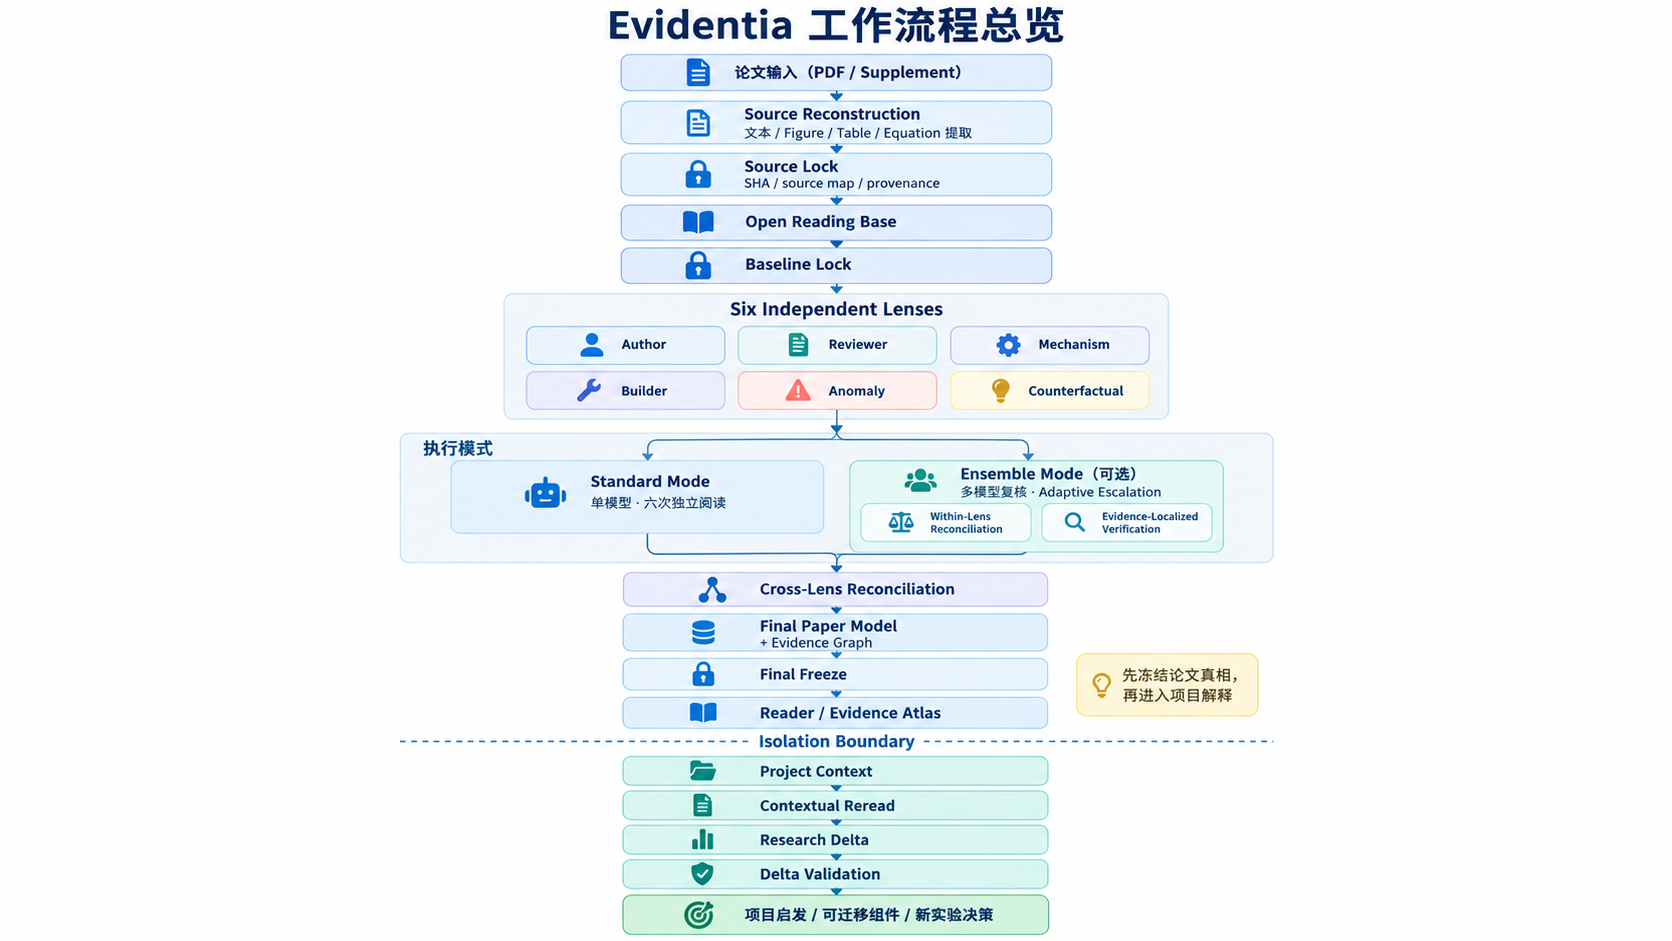
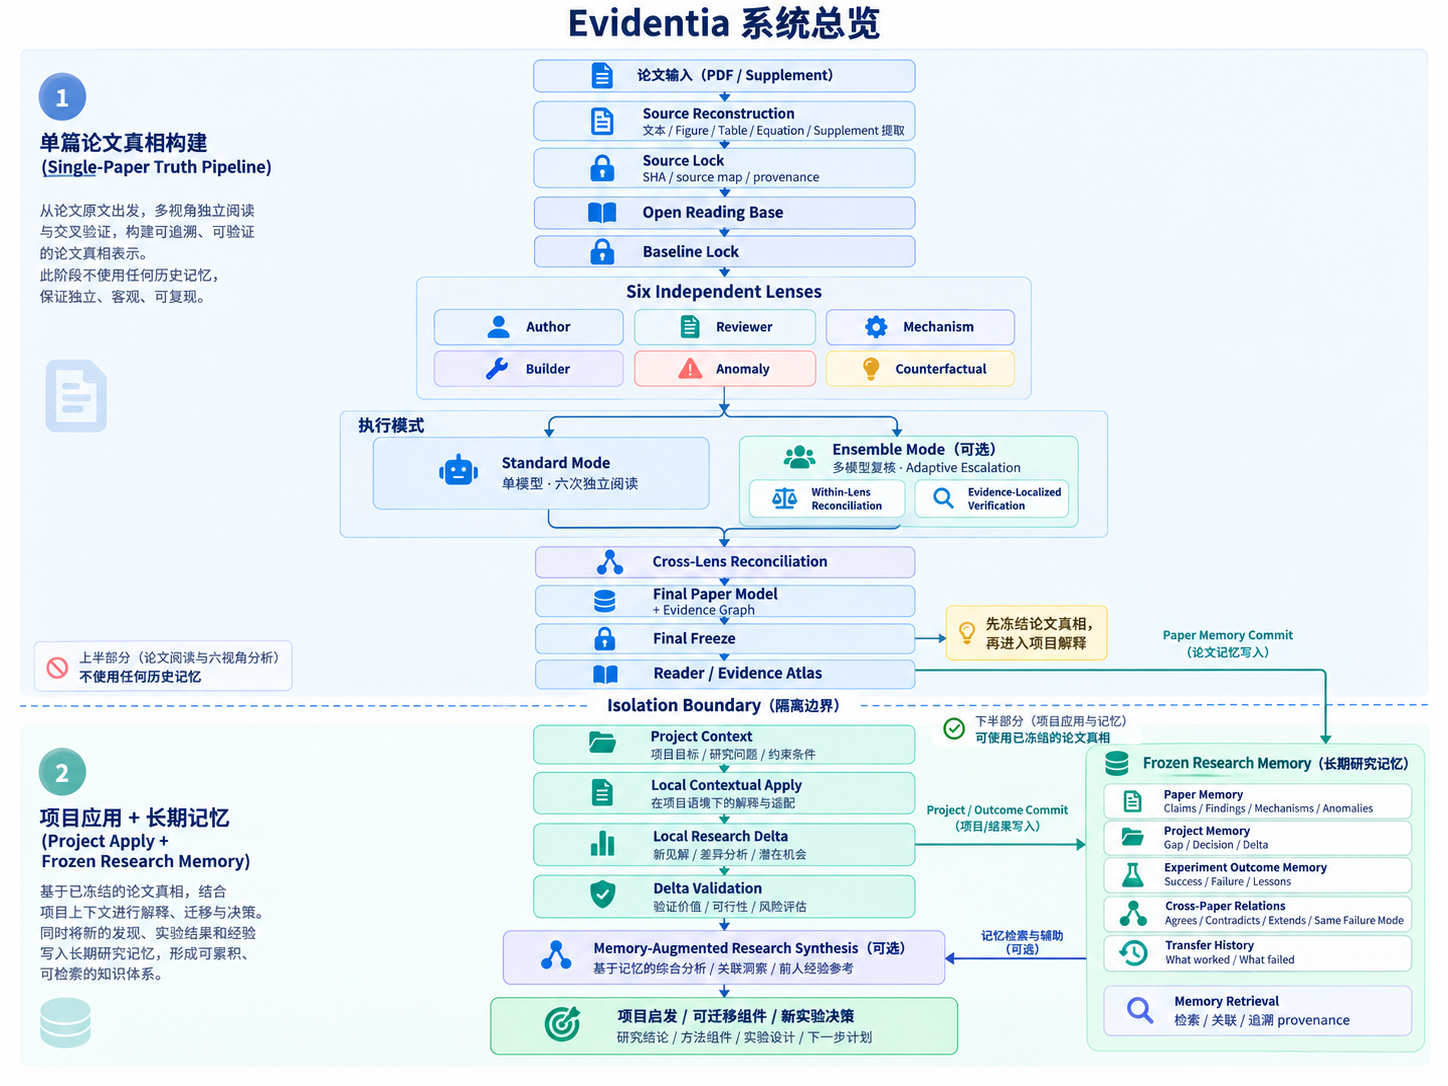
docs: add comprehensive v1.0 reference specifications (Sections 88-90)

diff --git a/references/epistemic-states.md b/references/epistemic-states.md
@@ -1,0 +1,19 @@
+# Evidentia Epistemic States Vocabulary
+
+In Evidentia, scientific uncertainty is treated as first-class empirical data, never flattened into binary true/false.
+
+## Canonical Epistemic States
+
+| State | Definition | Example / Trigger |
+|---|---|---|
+| **VERIFIED** | The assertion has been independently verified against localized source evidence by the Verifier. | Numeric accuracy in Table 1 matches claimed improvement. |
+| **SUPPORTED** | The assertion is directly substantiated by in-paper evidence (figures, tables, derivations). | Observation is directly visible in Figure 2. |
+| **PARTIAL** | The assertion is partially supported, but key conditions, ablations, or controls are omitted. | Trend holds on benchmark A, but was not evaluated on benchmark B. |
+| **NOT_STATED** | The paper implies a conclusion but omits explicit empirical data or formal derivation. | Hyperparameter sensitivity is not documented in the text. |
+| **AMBIGUOUS** | The evidence is contradictory, poorly specified, or susceptible to multiple conflicting interpretations. | Divergent loss curves under different initialization seeds. |
+| **INSUFFICIENT_EVIDENCE** | The available data is insufficient to establish or refute the claim. | Insufficient sample size or unstated statistical test. |
+| **MODEL_UNCERTAIN** | The Host Agent identifies multiple plausible hypotheses and cannot resolve certainty. | Ambiguous wording in experimental setup. |
+| **NEEDS_SUPPLEMENT** | Verification requires inspecting supplementary materials or external appendices. | Full proof or dataset license deferred to supplement. |
+| **NEEDS_CITATION_TRACE** | The claim relies on external literature citations rather than in-paper data. | Baseline accuracy numbers cited from previous publications. |
+| **UNRESOLVED** | Cross-lens tension or contradiction remains unverified or unresolved. | Reviewer lens and Author lens disagree on failure mode. |
+| **REJECTED** | The assertion is explicitly disproved or refuted by localized evidence. | Ablation demonstrates loss term has negligible effect. |

diff --git a/references/evaluation.md b/references/evaluation.md
@@ -1,0 +1,40 @@
+# Evaluation Framework & Benchmark Architecture
+
+Evidentia strictly separates engineering correctness from scientific validation through a multi-tier evaluation system.
+
+## Evaluation Tiers
+
+### Tier 0 — Deterministic Correctness (CI Gate)
+- Validates schemas against Draft 2020-12
+- Enforces SHA-256 content-address chain and fail-closed freeze gates
+- Enforces artifact bundle tamper detection and resume safety
+- Runs on every pull request
+
+### Tier 1 — Synthetic Integration
+- Tests workflow plumbing and state transitions from raw synthetic PDFs to frozen reader
+- Validates CLI orchestration without live LLM calls
+
+### Tier 2 — Recorded Real-Agent Replay
+- Replays sanitized, recorded Host Agent results to verify contract compatibility and schema stability
+
+### Tier 3 — Live Agent Integration
+- Evaluates live host models on benchmark corpus papers
+
+### Tier 4 — Human-Annotated Scientific Benchmark
+- Compares Condition A (Single-pass reading), Condition B (Evidentia Standard), and Condition C (Evidentia Ensemble) against ground-truth human annotations
+
+## Key Metric Formulations
+
+### Scientific Grounding
+- **Claim-Evidence Precision**: Fraction of claim evidence attachments verified in ground truth.
+- **Unsupported Claim Rate**: Fraction of claims lacking direct evidence citations.
+- **O/I/A Leakage Rate**: Fraction of Observation blocks containing author rhetoric or unverified reader assessment.
+
+### Critical Reading
+- **Weakness Recall**: Fraction of real paper weaknesses captured across Reviewer, Mechanism, and Builder passes.
+- **Anomaly Recall**: Fraction of real anomalies identified by the Anomaly pass.
+- **Causal Overclaim Detection**: Identification of unsupported causal language.
+
+### Memory Integrity
+- **Open Reading Contamination Rate**: Fraction of Open Reading passes exposed to memory context (**Critical Invariant: MUST BE 0.0**).
+- **Provenance Completeness**: Percentage of memory items retaining full commit and source evidence chains.

diff --git a/references/ensemble.md b/references/ensemble.md
@@ -1,0 +1,46 @@
+# Multi-Model Ensemble Mode
+
+Ensemble Mode enhances Standard Mode with model diversity while preserving invariant scientific contracts.
+
+## Architecture
+
+```text
+Host Task Packet (Identical Lens Contract)
+      ├── Model Alpha ──► lens_runs/<lens>/run-001.json
+      └── Model Beta  ──► lens_runs/<lens>/run-002.json
+                                 │
+                                 ▼
+                     Within-Lens Reconciliation
+                                 │
+                                 ▼
+                     Adaptive Model Escalation
+                                 │
+                                 ▼
+                     Canonical `lens/<lens>.json`
+```
+
+## Within-Lens States
+
+- **MODEL_SINGLETON**: A finding identified by only one model.
+- **CROSS_MODEL_CONVERGENCE**: Multiple independent models converge on the same finding.
+- **MODEL_PARTIAL_AGREEMENT**: Models agree on core premise with varying nuance.
+- **MODEL_CONFLICT**: Models produce conflicting interpretations of the same evidence.
+
+## Adaptive Escalation Triggers
+
+Second model passes or localized verification are triggered when:
+- High scientific impact
+- Epistemic uncertainty (`AMBIGUOUS`, `INSUFFICIENT_EVIDENCE`)
+- Unexpected anomalies (`novel_vs_base: true`)
+- Weak or unattached evidence
+- Critical transfer value for project application
+
+## Host Adapter Boundary
+
+Adapters (such as `adapters/pi/`) handle:
+- Model routing
+- Task dispatch
+- Result collection
+- Executor metadata injection
+
+Adapters never own lens definitions, scientific schemas, truth arbitration, or freeze gates.

diff --git a/references/memory-architecture.md b/references/memory-architecture.md
@@ -1,0 +1,36 @@
+# Frozen Research Memory Architecture
+
+Frozen Research Memory is Evidentia's explicit, inspectable, long-term cross-paper memory system.
+
+## Storage Layout
+
+```text
+<EVIDENTIA_MEMORY_ROOT>/
+├── memory.sqlite           # Rebuildable index + FTS5 full-text search
+├── objects/                # Immutable canonical JSON objects
+│   ├── paper_commits/     # Commits from frozen paper models
+│   ├── project_commits/   # Commits from validated research deltas
+│   ├── relations/         # Evidence-grounded cross-paper relations
+│   └── outcomes/          # Experiment results & decision traces
+├── snapshots/              # Periodic memory snapshots
+├── exports/                # Exported portable memory archives
+└── memory_manifest.json    # Top-level memory audit trail
+```
+
+## Immutable Objects vs Rebuildable Index
+
+Canonical truth resides in immutable JSON objects under `objects/`.
+`memory.sqlite` is an ephemeral index:
+\[
+\text{Database corruption} \neq \text{Knowledge loss}
+\]
+The index can be completely recreated from disk objects at any time:
+```bash
+evidentia memory rebuild-index
+```
+
+## Commit Gates
+
+- **Paper Commit**: Requires `verify_frozen.py` to pass with `FROZEN` status. Unfrozen paper models are rejected.
+- **Project Commit**: Requires `validate_delta.py` to pass with valid provenance.
+- **Outcome Commit**: Records real experiment outcomes (`SUCCESS`, `FAILURE`, `PARTIAL_SUCCESS`, `INCONCLUSIVE`).

diff --git a/references/reconciliation.md b/references/reconciliation.md
@@ -1,0 +1,35 @@
+# Semantic Cross-Lens Reconciliation
+
+Reconciliation integrates findings from the six independent Lens rereads into coherent, structured knowledge without erasing scientific tension.
+
+## Two-Phase Pipeline
+
+### 1. Deterministic Pre-Clustering (`merge_lenses.py`)
+Deterministic code groups candidate findings by:
+- Exact duplicate statements and shared evidence
+- Shared source objects (e.g. both commenting on Figure 2)
+- Potential polarity opposition (one affirming, one critiquing)
+
+Deterministic code does NOT decide final scientific truth.
+
+### 2. Semantic Relation Classification
+Findings are categorized into canonical relations:
+- **AGREEMENT**: Independent lenses converge on identical or corroborating findings.
+- **COMPLEMENTARY**: Lenses reveal distinct, non-overlapping facets of the same evidence.
+- **PARTIAL_AGREEMENT**: Lenses agree on core mechanism but differ on scope or assumptions.
+- **TENSION**: Lenses observe divergent trends on the same evidence.
+- **CONTRADICTION**: Lenses state diametrically opposing conclusions.
+- **ORTHOGONAL**: Findings address unrelated aspects.
+- **UNRESOLVED**: Ambiguous or insufficient evidence prevents classification.
+
+## Finding Cluster Model
+
+Canonical `Finding Cluster` objects (`schemas/finding_cluster.schema.json`) capture:
+- `cluster_id`
+- `member_finding_ids`
+- `relation`
+- `canonical_statement` (Agent-formulated)
+- `supporting_lenses`
+- `evidence_ids`
+- `epistemic_state`
+- `verification_required`

diff --git a/references/scientific-execution.md b/references/scientific-execution.md
@@ -1,0 +1,22 @@
+# Scientific Execution Architecture
+
+Evidentia v1.0 establishes an absolute architectural boundary between deterministic orchestration and scientific reasoning:
+
+```text
+Deterministic Code (Python)          Host Agent (LLM / Reasoner)
+---------------------------          ---------------------------
+- PDF text & visual extraction       - Paper interpretation
+- ID generation & hashing            - Claim formulation
+- State machine advancement          - Lens critical rereading
+- Schema validation                  - Semantic reconciliation
+- Evidence bundle generation         - Localized verification
+- Fail-closed freeze checks          - Transfer analysis & Apply
+- Database indexing & HTML rendering
+```
+
+## Non-Negotiable Invariants
+
+1. **Source Before Interpretation**: No scientific statement may be formed without concrete grounding in reconstructed source objects (pages, sections, figures, tables, equations, mentions).
+2. **Deterministic Code Never Invents Science**: Production execution code is strictly prohibited from containing hardcoded scientific conclusions, templates, or manufactured numbers.
+3. **Host-Agnostic Execution**: Standard Mode executes fully on any compatible single model/host (Codex, Claude Code, Pi) using standard JSON task packets.
+4. **Project Invisibility during Reading**: Open Reading has zero access to project documents, project goals, or long-term research memory.

diff --git a/references/verifier.md b/references/verifier.md
@@ -1,0 +1,29 @@
+# Evidence-Localized Verifier
+
+The Verifier evaluates disputed claims, anomalies, and cross-lens contradictions against localized source evidence.
+
+## Core Principle: No Majority Voting
+
+Neither model count nor lens count determines scientific validity:
+\[
+4 \text{ models agree with Author} \neq \text{Truth}
+\]
+Truth is determined solely by localized evidence verification.
+
+## Localized Evidence Boundary
+
+The Verifier is NOT fed the entire paper text. Its input is strictly localized to:
+- Candidate statement & claim target
+- Relevant source IDs
+- Figure/Table captions
+- Localized visual asset (image file, dimensions, channel validity)
+- Parsed table cells / regions
+- Surrounding paragraphs and mathematical derivations
+
+## Status Vocabulary
+
+- **SUPPORTED**: Localized evidence directly and strictly confirms the statement.
+- **PARTIAL**: Evidence partially corroborates the claim, but key aspects lack local verification.
+- **REJECTED**: Localized evidence explicitly refutes, disproves, or contradicts the statement.
+- **AMBIGUOUS**: Localized evidence is inconclusive or exhibits conflicting local signals.
+- **INSUFFICIENT_EVIDENCE**: The localized evidence snippet lacks the necessary data to evaluate the claim.

diff --git a/references/memory-retrieval.md b/references/memory-retrieval.md
@@ -1,0 +1,48 @@
+# Frozen Research Memory Retrieval Pipeline
+
+Evidentia provides a portable, local-first retrieval architecture without requiring external vector database dependencies.
+
+## Multi-Stage Retrieval Architecture
+
+```text
+User / Project Query
+        │
+        ▼
+Structured Filters (memory_type, paper_id, epistemic_state)
+        │
+        ▼
+FTS5 Full-Text Search (SQLite FTS5 virtual table)
+        │
+        ▼
+Candidate Matches
+        │
+        ▼
+Provenance Validation (Verify commit hashes & source evidence IDs)
+        │
+        ▼
+Ranked Provenance-Linked Results
+```
+
+## Retrieval Output Contract
+
+Every retrieved item returns complete provenance:
+- `memory_id`
+- `memory_type`
+- `text`
+- `paper_id`
+- `object_id`
+- `source_ids`
+- `epistemic_state`
+- `paper_model_sha256`
+- `source_sha256`
+- `retrieval_method`
+
+## Search Interface
+
+```bash
+# Query all memory types
+evidentia memory search --query "Attention"
+
+# Filter by memory type
+evidentia memory search --query "minority subgroup" --type ANOMALY
+```

diff --git a/references/agent-protocol.md b/references/agent-protocol.md
@@ -1,0 +1,32 @@
+# Generic Host-Agent Task Protocol
+
+Evidentia communicates with host models through standardized JSON task packets, decoupling scientific reasoning from any specific model SDK.
+
+## Task Protocol Flow
+
+```text
+Core State (SOURCE_LOCK)
+    │
+    ▼
+Core generates `tasks/open_reading.json` (agent_task schema)
+    │
+    ▼
+State: WAITING_FOR_AGENT
+    │
+    ▼
+Host Agent reads packet + `evidence_bundles/`
+    │
+    ▼
+Host Agent writes result (`agent_result_envelope` schema)
+    │
+    ▼
+Submission via CLI: `evidentia submit --task <id> --result <file>`
+    │
+    ▼
+Core validates schema, provenance, hashes → Advances State
+```
+
+## Schemas
+
+- `schemas/agent_task.schema.json`: Declares `task_id`, `task_type`, `required_capability`, `input_artifacts`, `localized_evidence`, `output_schema`, and `prohibited_context`.
+- `schemas/agent_result_envelope.schema.json`: Encapsulates output with full executor metadata (`kind`, `host`, `model`, timestamps).

diff --git a/references/memory-isolation.md b/references/memory-isolation.md
@@ -1,0 +1,23 @@
+# Open Reading Memory Firewall
+
+To prevent confirmation bias, Evidentia enforces strict technical isolation between past research memory and the reading of a new paper.
+
+## Isolation Policy
+
+During the following workflow phases:
+- `SOURCE_RECONSTRUCTION`
+- `SOURCE_LOCK`
+- `OPEN_READING`
+- `BASELINE_LOCK`
+- `LENS_EXECUTION`
+
+The long-term research memory directory and database are completely inaccessible to the Host Agent.
+
+## Technical Enforcement
+
+`memory_manager.py` provides `enforce_open_reading_firewall()`:
+1. Rejects any task packet that lacks `RESEARCH_MEMORY` in its `prohibited_context`.
+2. Rejects any task packet whose `input_artifacts` contains memory paths or database files.
+3. Quantifies `open_reading_contamination_rate` during evaluation (Critical Invariant: MUST BE 0.0).
+
+Memory retrieval is permitted only after `FINAL_FREEZE` during Stage B of Apply or explicit cross-paper synthesis.
